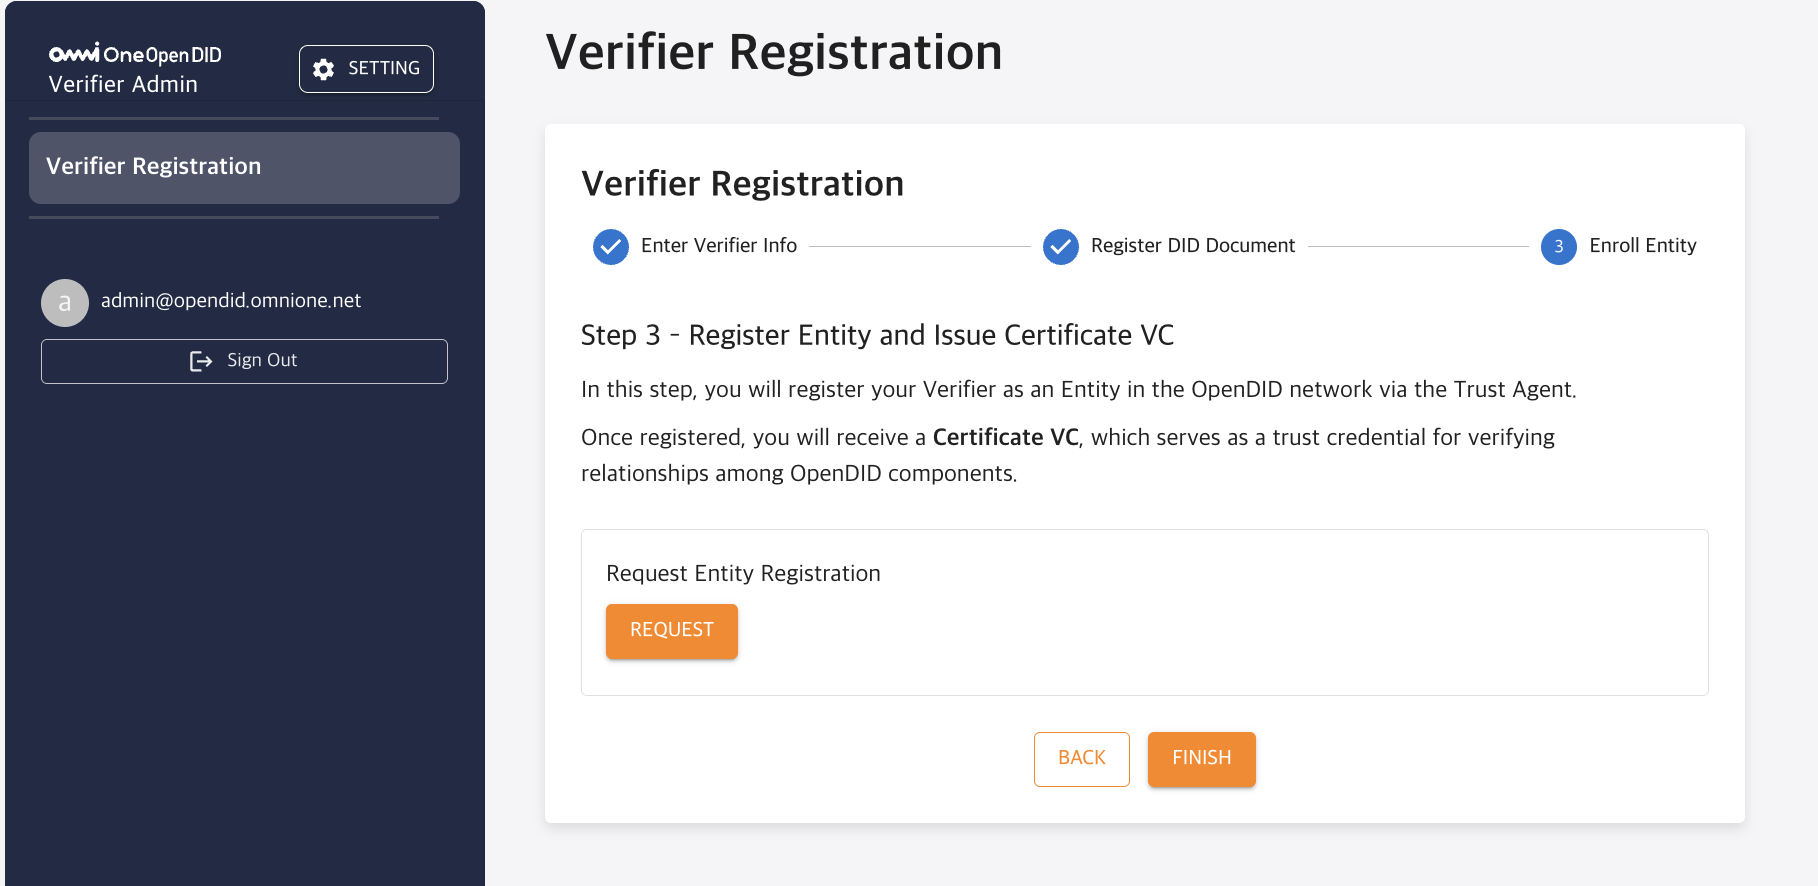
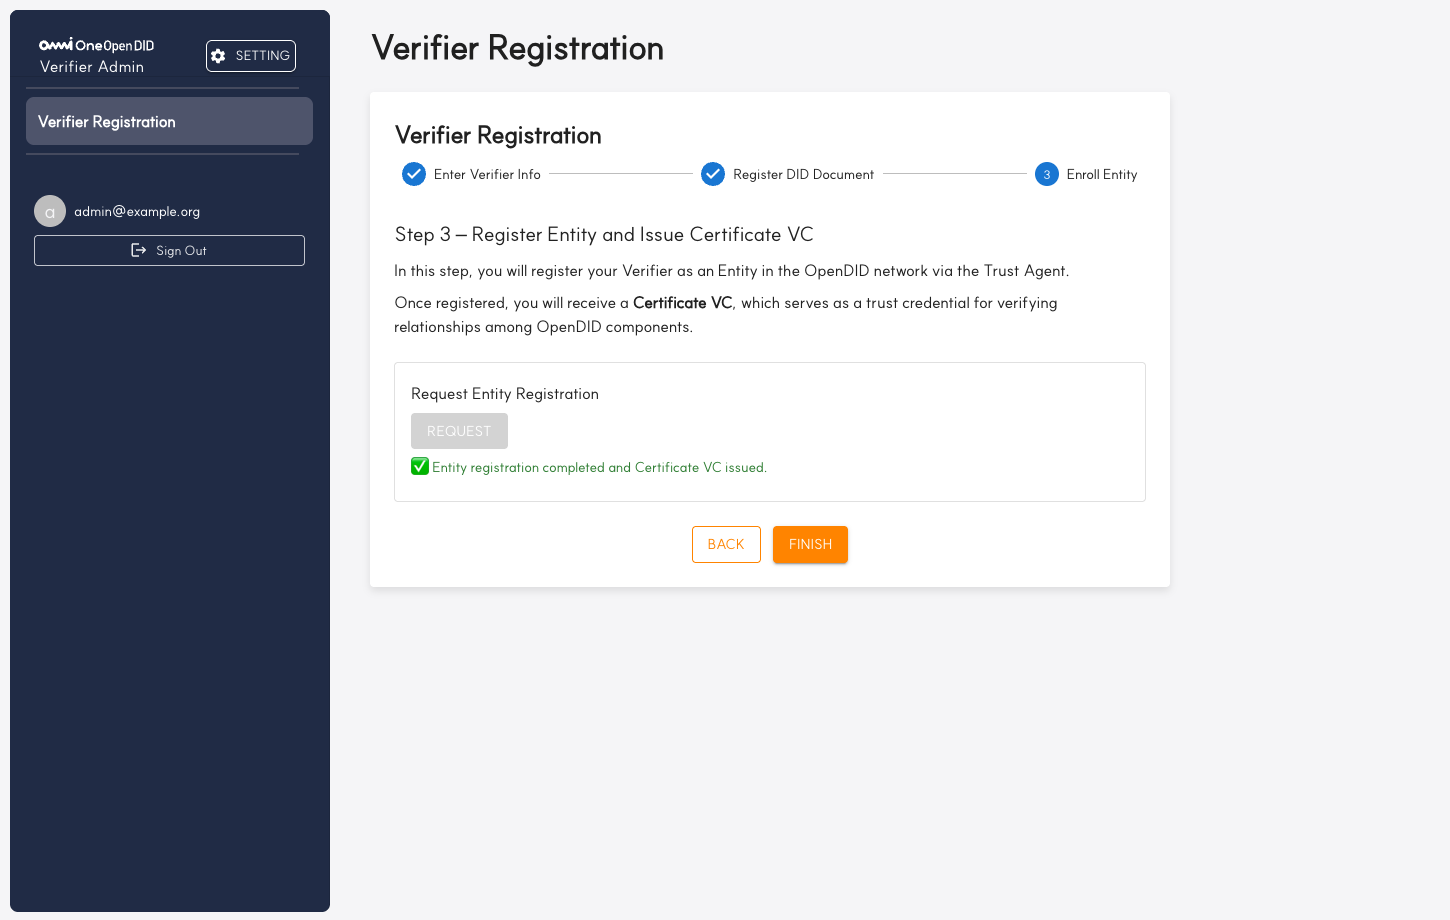
docs: correct the Verifier proof response and registration guide

diff --git a/docs/admin/OpenDID_VerifierAdmin_Operation_Guide.md b/docs/admin/OpenDID_VerifierAdmin_Operation_Guide.md
@@ -175,7 +175,7 @@ The sidebar menu of the Verifier Admin Console **differs in screen configuration
 
 In the initial state where the Verifier server is not yet registered, only the **Verifier Registration** item is displayed alone in the menu.
 
-<img src="./images/verifier-menu-before-registration.jpg" width="250"/>
+<img src="./images/verifier-menu-before-registration.jpg" width="300"/>
 
 > **Important**: In the OpenDID system, the Verifier is a core element that forms the foundation of all verification policies. VP and ZKP verification policies can only be set up after Verifier registration is complete.
 
@@ -299,12 +299,12 @@ Registration Complete: Move to Verifier Management menu
 
 In the first step, enter the basic information of the Verifier server and check actual connectivity.
 
-<img src="./images/verifier-registration.png" width="600"/>
+<img src="./images/verifier-registration.png" width="800"/>
 
 | Input Item | Description | Input Example | Required |
 |------------|-------------|---------------|----------|
-| **Name** | Enter the unique name of the Verifier server. | `MyCompany-Verifier` | ✅ Required |
-| **Verifier URL** | Enter the access URL of the Verifier server. | `http://192.168.1.100:8094/verifier` | ✅ Required |
+| **Name** | Enter the name of the Verifier server. Use 3 to 20 English characters. | `ExampleVerifier` | ✅ Required |
+| **Verifier URL** | Enter the access URL of the Verifier server (up to 200 characters). The default port is `8092`. | `https://example.org/verifier` | ✅ Required |
 
 ##### **Connection Test Function**
 - Click the **Test Connection** button to check if actual connection is possible with the entered URL.
@@ -325,7 +325,7 @@ The second step is the process of registering the Verifier's identity on the blo
 
 Automatically generates a unique DID Document for the Verifier server.
 
-<img src="./images/register-did-document-step2.png" width="600"/>
+<img src="./images/register-did-document-step2.png" width="800"/>
 
 | Button | Function | Result |
 |--------|----------|--------|
@@ -341,7 +341,7 @@ Automatically generates a unique DID Document for the Verifier server.
 
 Request registration of the generated DID Document to the Trust Authority (TA).
 
-<img src="./images/register-did-document-step2-1.png" width="600"/>
+<img src="./images/register-did-document-step2-1.png" width="800"/>
 
 | Button | Function | Description |
 |--------|----------|-------------|
@@ -354,11 +354,11 @@ Request registration of the generated DID Document to the Trust Authority (TA).
 
 Check whether the TA administrator has approved the DID Document registration request.
 
-<img src="./images/check-approval.png" width="600"/>
+<img src="./images/check-approval.png" width="800"/>
 
 | Button | Function | Result by Status |
 |--------|----------|------------------|
-| **CHECK** | Query TA approval status | **Approved**: Green message + NEXT button activated<br>**Rejected**: Red message + reason displayed |
+| **CHECK** | Query TA approval status | **Pending**: Pending notice popup<br>**Approved**: Green message + NEXT button activated<br>**Rejected**: Rejection notice popup, then returns to the first screen |
 
 > **TA Administrator approval process** is an essential process for the security of the OpenDID ecosystem. Please check the status regularly until approval is complete.
 
@@ -368,9 +368,9 @@ Check whether the TA administrator has approved the DID Document registration re
 
 In the final step, register the Verifier as an official member (Entity) of the OpenDID ecosystem and receive a membership certificate.
 
-<img src="./images/verifier-regstration-step3.png" width="600"/>
+<img src="./images/verifier-regstration-step3.png" width="800"/>
 
-This step automatically executes **TA Protocol P132 (User Registration Protocol)** to perform the following processes:
+This step automatically executes **TA Protocol P120 (Entity Registration Protocol)** to perform the following processes:
 
 1. **Entity Registration Request**: Register Verifier as Entity on TA server
 2. **Certificate Issuance**: Generate and receive membership certificate (Certificate VC)
@@ -378,7 +378,7 @@ This step automatically executes **TA Protocol P132 (User Registration Protocol)
 
 | Button | Function | Processing Content |
 |--------|----------|-------------------|
-| **REQUEST** | Execute Entity registration protocol | Automatically execute TA Protocol P132 |
+| **REQUEST** | Execute Entity registration protocol | Automatically execute TA Protocol P120 |
 | **FINISH** | Complete registration and move to main screen | Switch to Verifier Management screen |
 
 > The membership certificate (Certificate VC) is a digital certificate that proves the Verifier is a trustworthy verifier. It is used to prove the Verifier's identity in all subsequent verification processes.
@@ -429,7 +429,7 @@ Click the **VIEW DID DOCUMENT** button to view the complete DID Document registe
 #### **DID Registration Approval Delay**
 - Contact TA administrator about approval request status
 - Periodically click CHECK button to verify status
-- If approval is rejected, check the reason and resolve issues before retrying
+- If the request is rejected, ask the TA administrator for the reason, resolve the problem, and try again
 
 #### **Entity Registration Failure**
 - Check network connection status

diff --git a/docs/admin/OpenDID_VerifierAdmin_Operation_Guide_ko.md b/docs/admin/OpenDID_VerifierAdmin_Operation_Guide_ko.md
@@ -175,7 +175,7 @@ Verifier Admin Console의 사이드바 메뉴는 **Verifier 등록 상태에 따
 
 Verifier 서버가 아직 등록되지 않은 초기 상태에서는 메뉴에 **Verifier Registration** 항목만 단독으로 표시됩니다.
 
-<img src="./images/verifier-menu-before-registration.jpg" width="250"/>
+<img src="./images/verifier-menu-before-registration.jpg" width="300"/>
 
 > **중요**: OpenDID 시스템에서 Verifier는 모든 검증 정책의 기반이 되는 핵심 요소입니다. Verifier 등록이 완료되어야만 VP 및 ZKP 검증 정책을 설정할 수 있습니다.
 
@@ -299,12 +299,12 @@ Step 3: Entity 등록 및 가입증명서 발급
 
 첫 번째 단계에서는 Verifier 서버의 기본 정보를 입력하고 실제 연결 가능 여부를 확인합니다.
 
-<img src="./images/verifier-registration.png" width="600"/>
+<img src="./images/verifier-registration.png" width="800"/>
 
 | 입력 항목 | 설명 | 입력 예시 | 필수 여부 |
 |-----------|------|-----------|-----------|
-| **Name** | Verifier 서버의 고유 이름을 입력합니다. | `MyCompany-Verifier` | ✅ 필수 |
-| **Verifier URL** | Verifier 서버의 접근 URL을 입력합니다. | `http://192.168.1.100:8094/verifier` | ✅ 필수 |
+| **Name** | Verifier 서버의 이름을 입력합니다. 영문 3~20자입니다. | `ExampleVerifier` | ✅ 필수 |
+| **Verifier URL** | Verifier 서버의 접근 URL을 입력합니다(200자 이내). 기본 포트는 `8092`입니다. | `https://example.org/verifier` | ✅ 필수 |
 
 ##### **연결 테스트 기능**
 - **Test Connection** 버튼을 클릭하면 입력한 URL로 실제 연결이 가능한지 확인합니다.
@@ -325,7 +325,7 @@ Step 3: Entity 등록 및 가입증명서 발급
 
 Verifier 서버의 고유한 DID Document를 자동으로 생성합니다.
 
-<img src="./images/register-did-document-step2.png" width="600"/>
+<img src="./images/register-did-document-step2.png" width="800"/>
 
 | 버튼 | 기능 | 결과 |
 |------|------|------|
@@ -341,7 +341,7 @@ Verifier 서버의 고유한 DID Document를 자동으로 생성합니다.
 
 생성된 DID Document를 신뢰 기관(TA)에 등록 요청합니다.
 
-<img src="./images/register-did-document-step2-1.png" width="600"/>
+<img src="./images/register-did-document-step2-1.png" width="800"/>
 
 | 버튼 | 기능 | 설명 |
 |------|------|------|
@@ -354,11 +354,11 @@ Verifier 서버의 고유한 DID Document를 자동으로 생성합니다.
 
 TA 관리자가 DID Document 등록 요청을 승인했는지 확인합니다.
 
-<img src="./images/check-approval.png" width="600"/>
+<img src="./images/check-approval.png" width="800"/>
 
 | 버튼 | 기능 | 상태별 결과 |
 |------|------|-------------|
-| **CHECK** | TA 승인 상태 조회 | **승인 완료**: 초록색 메시지 + NEXT 버튼 활성화<br>**승인 거부**: 빨간색 메시지 + 사유 표시 |
+| **CHECK** | TA 승인 상태 조회 | **승인 대기**: 대기 안내 팝업<br>**승인 완료**: 초록색 메시지 + NEXT 버튼 활성화<br>**승인 거부**: 거부 안내 팝업 후 처음 화면으로 이동 |
 
 > **TA 관리자 승인 절차**는 OpenDID 생태계의 보안을 위한 필수 과정입니다. 승인이 완료될 때까지 정기적으로 상태를 확인하세요.
 
@@ -368,9 +368,9 @@ TA 관리자가 DID Document 등록 요청을 승인했는지 확인합니다.
 
 마지막 단계에서는 Verifier를 OpenDID 생태계의 정식 구성원(Entity)으로 등록하고 가입증명서를 발급받습니다.
 
-<img src="./images/verifier-regstration-step3.png" width="600"/>
+<img src="./images/verifier-regstration-step3.png" width="800"/>
 
-이 단계에서는 **TA 프로토콜 P132(사용자 등록 프로토콜)**을 자동으로 실행하여 다음 과정을 수행합니다:
+이 단계에서는 **TA 프로토콜 P120(Entity 등록 프로토콜)**을 자동으로 실행하여 다음 과정을 수행합니다:
 
 1. **Entity 등록 요청**: Verifier를 TA 서버에 Entity로 등록
 2. **인증서 발급**: 가입증명서(Certificate VC) 생성 및 수령
@@ -378,7 +378,7 @@ TA 관리자가 DID Document 등록 요청을 승인했는지 확인합니다.
 
 | 버튼 | 기능 | 처리 내용 |
 |------|------|-----------|
-| **REQUEST** | Entity 등록 프로토콜 실행 | TA 프로토콜 P132 자동 실행 |
+| **REQUEST** | Entity 등록 프로토콜 실행 | TA 프로토콜 P120 자동 실행 |
 | **FINISH** | 등록 완료 및 메인 화면 이동 | Verifier Management 화면으로 전환 |
 
 > 가입증명서(Certificate VC)는 Verifier가 신뢰할 수 있는 검증자임을 증명하는 디지털 증명서입니다. 이후 모든 검증 과정에서 Verifier의 신원을 증명하는 데 사용됩니다.
@@ -429,7 +429,7 @@ Verifier 등록이 완료되면 **Verifier Management** 메뉴에서 등록된 V
 #### **DID 등록 승인 지연 시**
 - TA 관리자에게 승인 요청 상태 문의
 - CHECK 버튼을 주기적으로 클릭하여 상태 확인
-- 승인 거부 시 사유를 확인하고 문제점 해결 후 재시도
+- 승인이 거부되면 TA 관리자에게 사유를 확인하고 문제를 해결한 뒤 다시 시도
 
 #### **Entity 등록 실패 시**
 - 네트워크 연결 상태 점검

diff --git a/docs/api/Verifier_API.md b/docs/api/Verifier_API.md
@@ -18,7 +18,7 @@ puppeteer:
 Verifier API
 ==
 
-- Date: 2026-11-02
+- Date: 2026-11-06
 - Version: v3.0.0
 
 ## Revision History
@@ -28,7 +28,7 @@ Verifier API
 | 1.0.0       | 2024-09-03 | Initial release                                                  |
 | 1.0.1 (dev) | 2024-03-31 | [4.1 Request Offer(QR)] Request data modified (added policyId, removed device, service, mode) |
 | 2.0.0       | 2025-05-30 | [5. P311 - ZKP Proof Submission Protocol] Added                 |
-| 3.0.0       | 2026-11-02 | [7. Protocol-Agnostic Verification API (v2)] and [8. OID4VP API] added |
+| 3.0.0       | 2026-11-06 | [7. Protocol-Agnostic Verification API (v2)] and [8. OID4VP API] added |
 
 <!-- TOC tocDepth:2..3 chapterDepth:2..6 -->
   
@@ -965,11 +965,6 @@ def object _M311_RequestVerifyProof: "Request Verify Proof response"
 {    
     //--- Common Part ---
     + uuid "txId": "transaction id"
-    
-    //--- Data Part ---
-    + bool "verified": "proof verification result"
-    - string "proofType": "proof type"
-    - object "verificationDetails": "verification details"
 }
 ```
 

diff --git a/docs/api/Verifier_API_ko.md b/docs/api/Verifier_API_ko.md
@@ -18,7 +18,7 @@ puppeteer:
 Verifier API
 ==
 
-- 일자: 2026-11-02
+- 일자: 2026-11-06
 - 버전: v3.0.0
 
 ## 개정 이력
@@ -28,7 +28,7 @@ Verifier API
 | 1.0.0       | 2024-09-03 | 최초 작성                                                 |
 | 1.0.1 (dev) | 2024-03-31 | [4.1 Request Offer(QR)] 요청 데이터 수정(policyId 추가, device, service, mode 삭제) |
 | 2.0.0       | 2025-05-30 | [5. P311 - ZKP Proof 제출 프로토콜] 추가                  |
-| 3.0.0       | 2026-11-02 | [7. 프로토콜 공통 검증 API (v2)], [8. OID4VP API] 추가 |
+| 3.0.0       | 2026-11-06 | [7. 프로토콜 공통 검증 API (v2)], [8. OID4VP API] 추가 |
 
 <!-- TOC tocDepth:2..3 chapterDepth:2..6 -->
   
@@ -964,11 +964,6 @@ def object _M311_RequestVerifyProof: "Request Verify Proof 응답문"
 {    
     //--- Common Part ---
     + uuid "txId": "transaction id"
-    
-    //--- Data Part ---
-    + bool "verified": "증명 검증 결과"
-    - string "proofType": "증명 유형"
-    - object "verificationDetails": "검증 상세 정보"
 }
 ```
 
